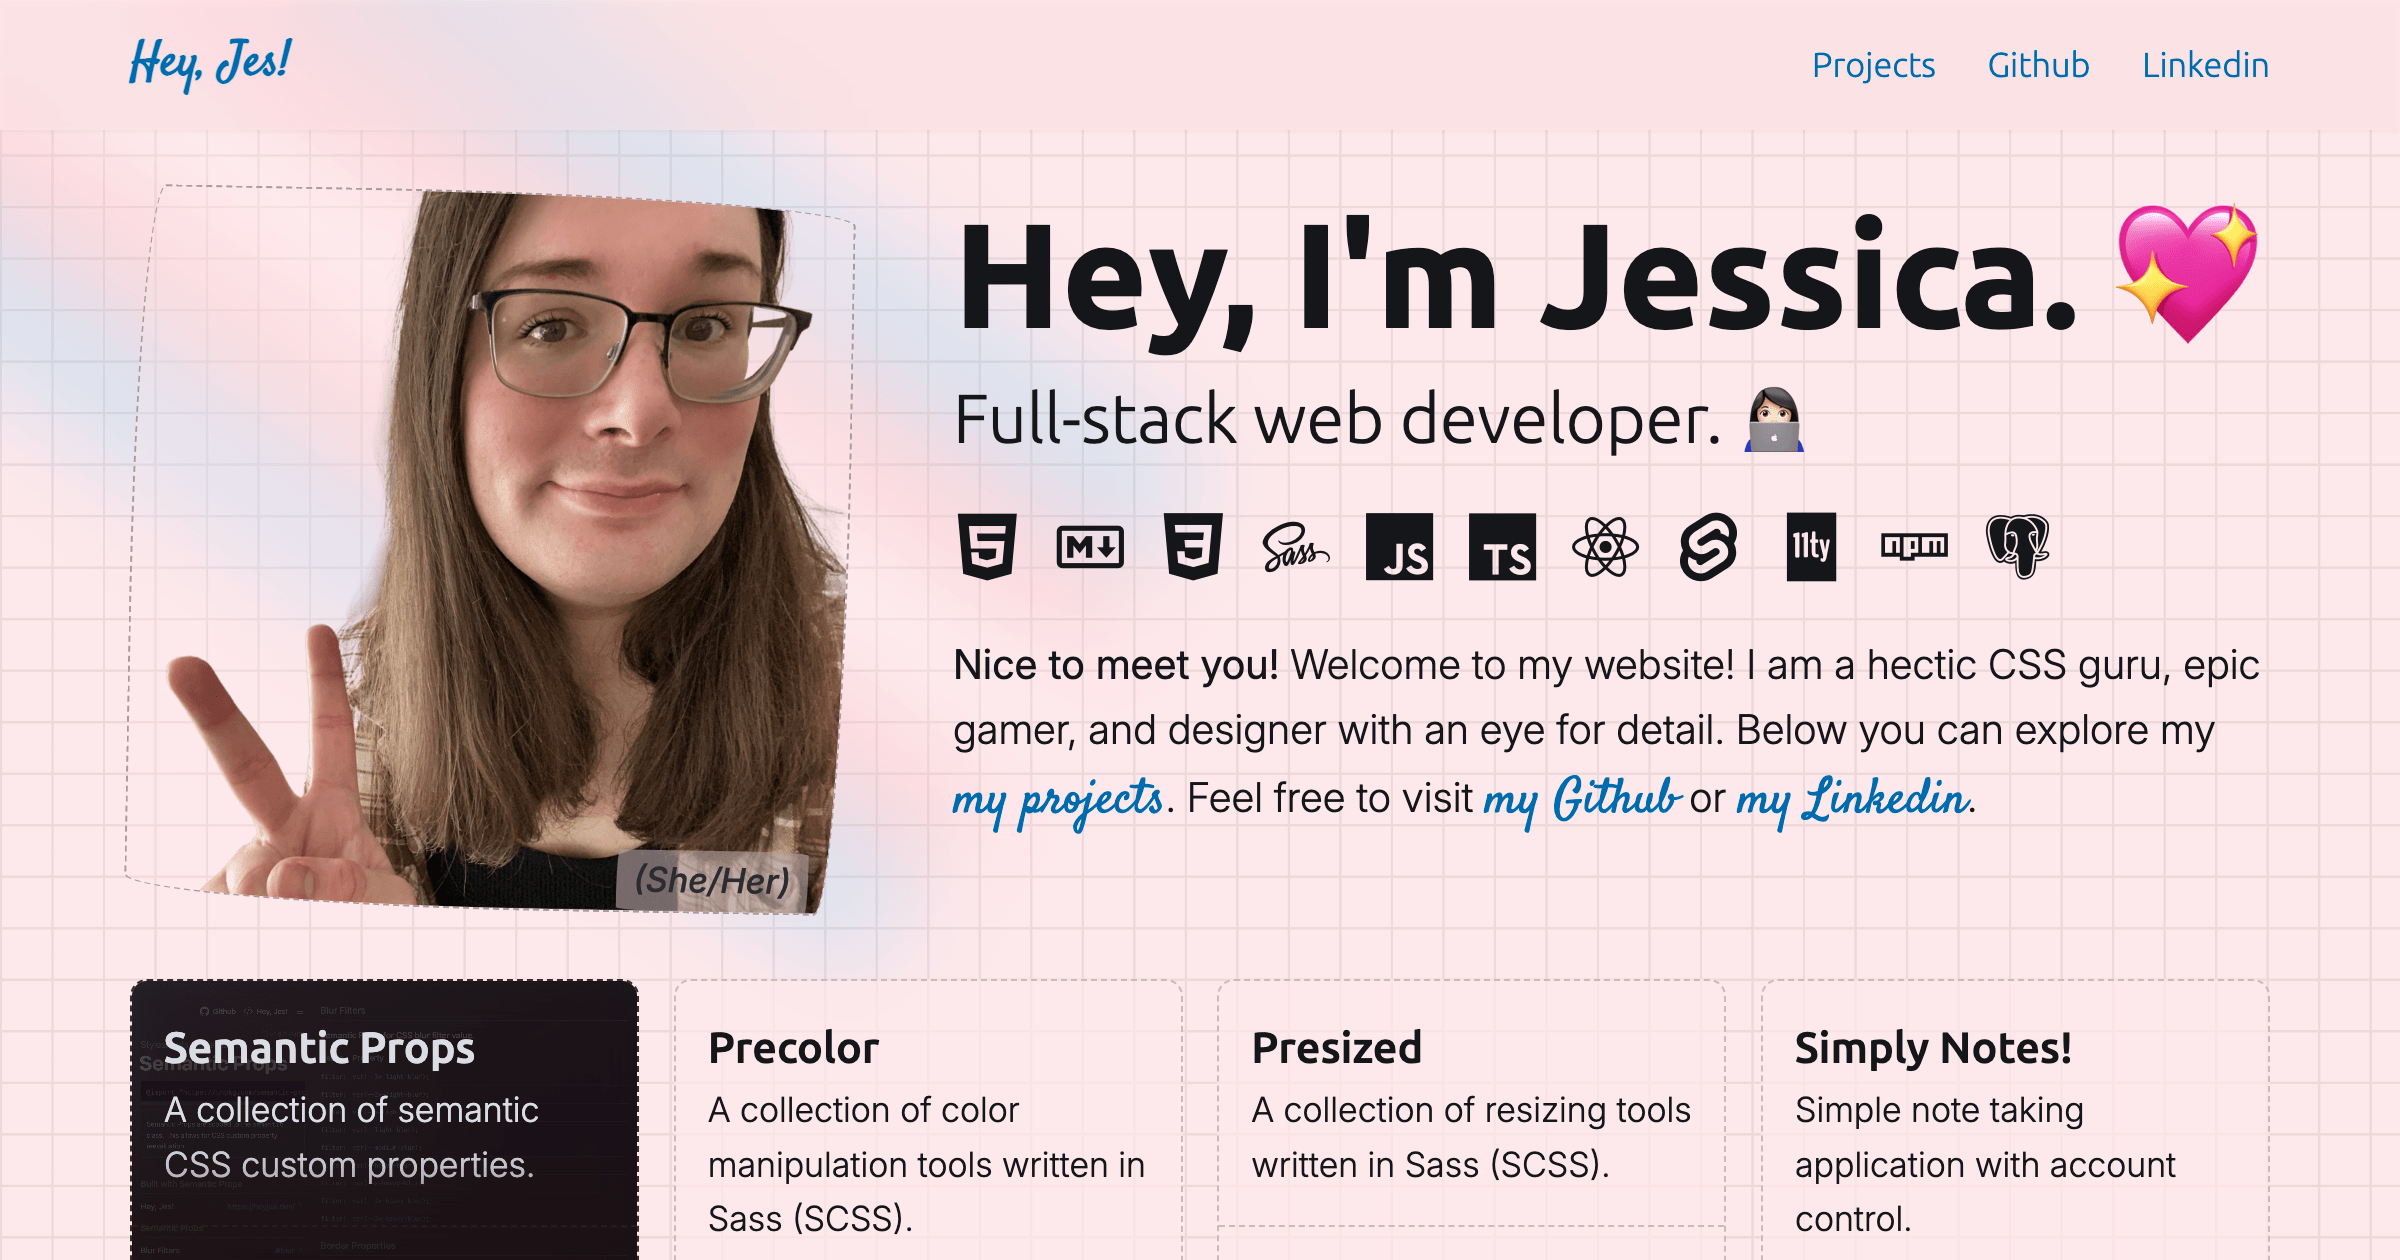
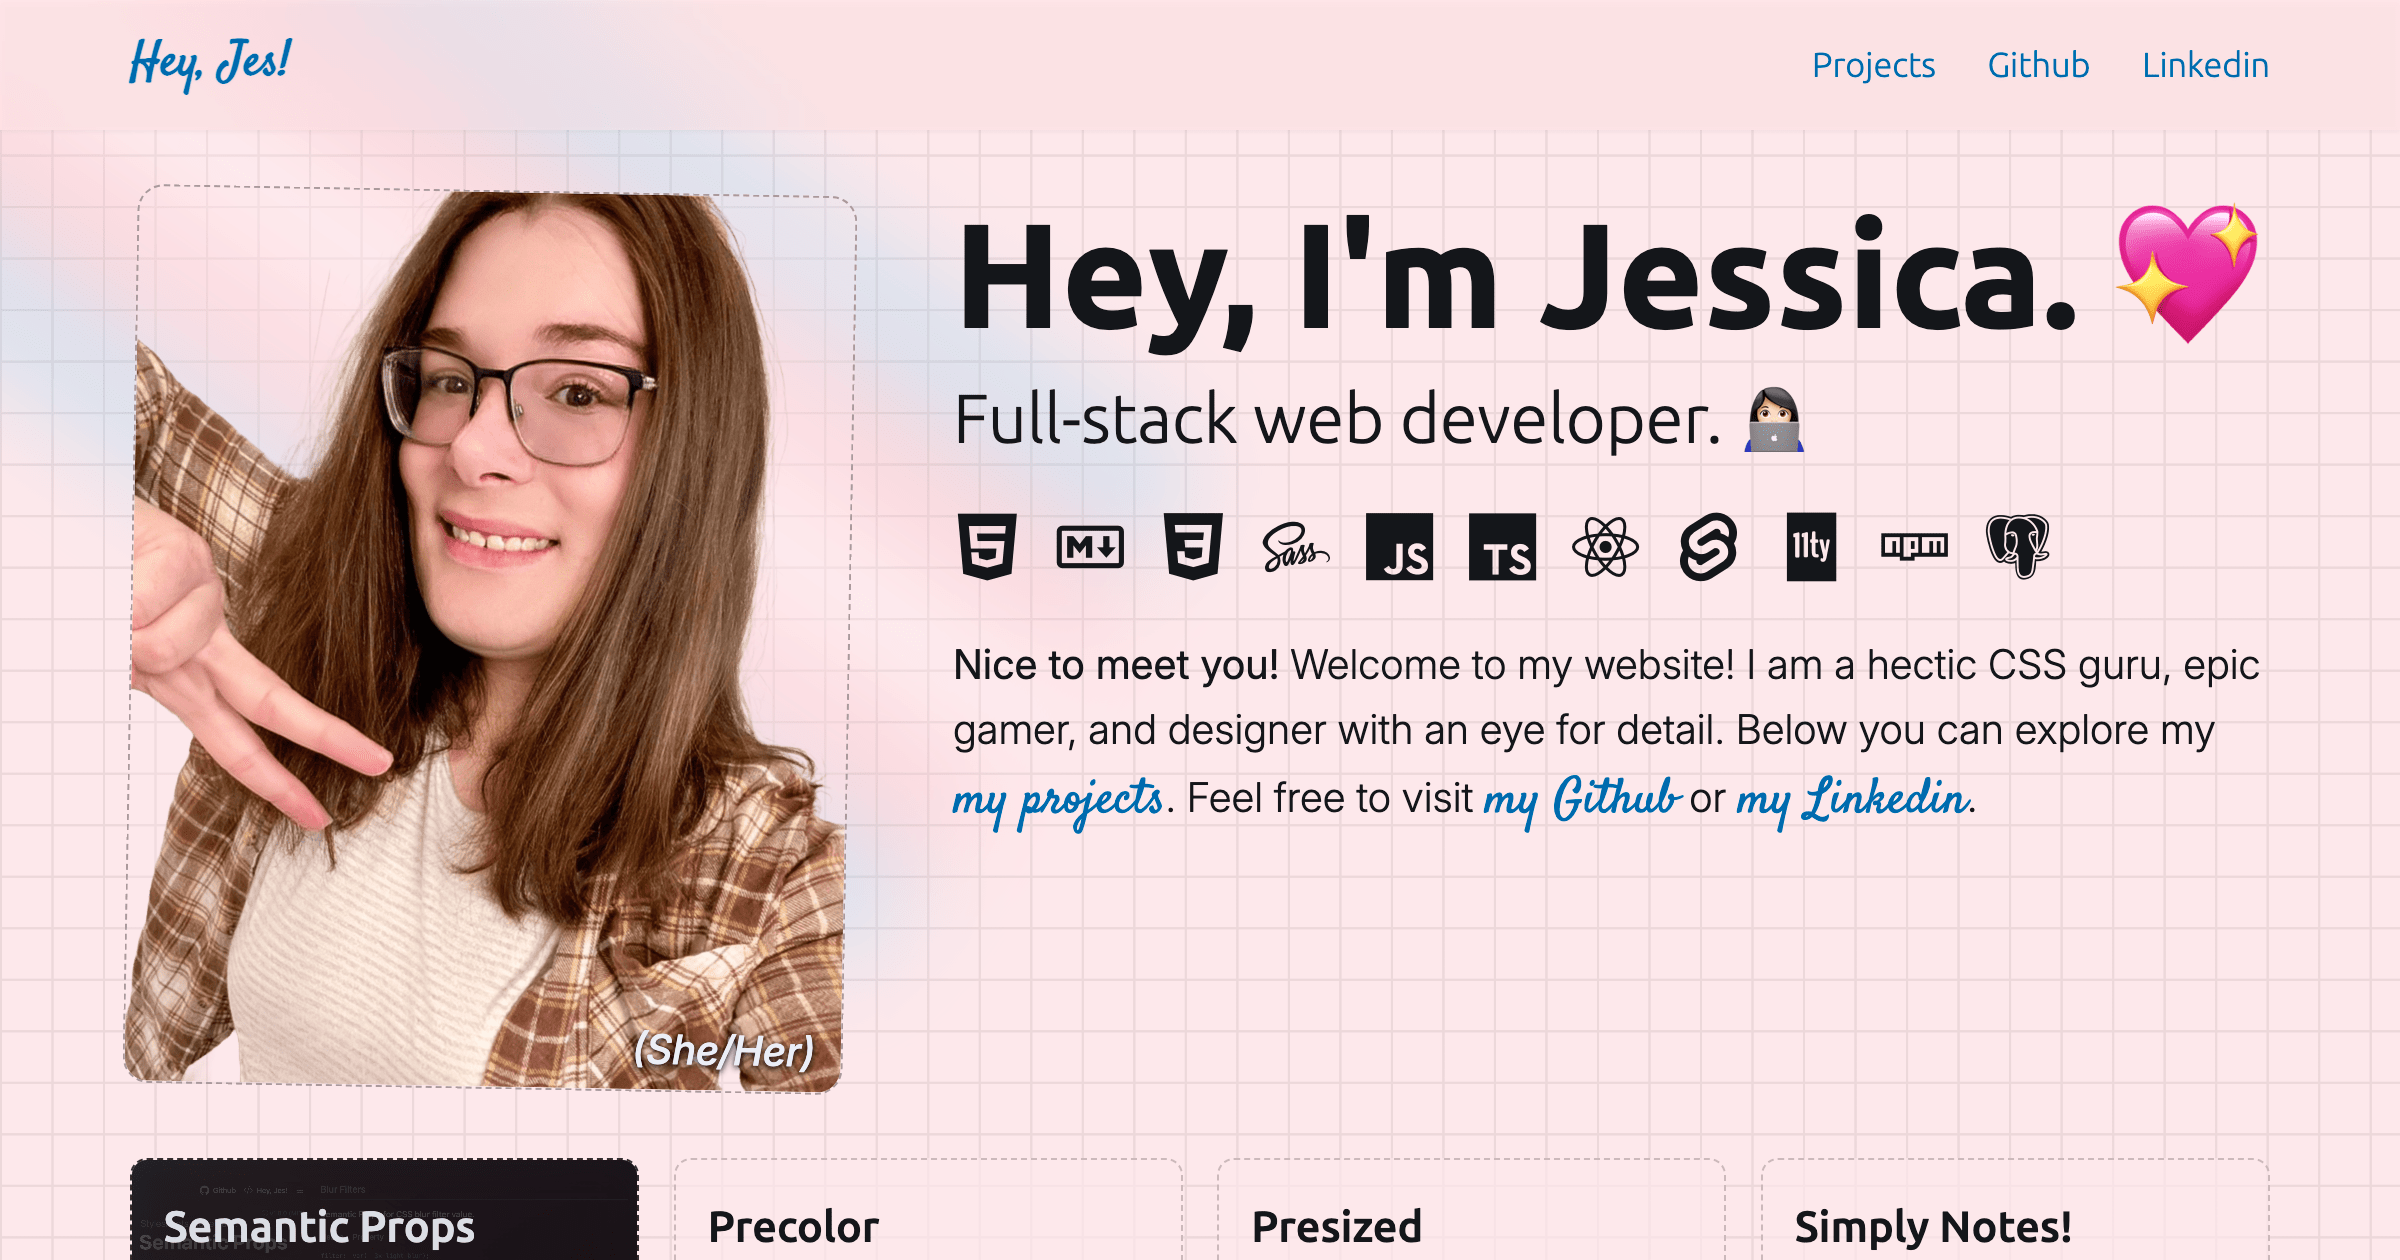
Updated profile picture image.

diff --git a/src/pages/Homepage.module.css b/src/pages/Homepage.module.css
@@ -9,12 +9,10 @@
 	position: relative;
 	display: block;
 	width: min(35cqi, var(--x-small-container));
-	aspect-ratio: 1 / 1;
 	background-color: var(--primary-50-800);
 	background-color: oklch(from var(--primary-50-800) l c h / var(--2x-low-opacity));
-	border-radius: 15px 255px 15px 225px / 225px 15px 255px 15px;
+	border-radius: var(--x-small-size);
 	border: 1px var(--border-style) var(--primary-300-600);
-	padding: var(--3x-small-size);
 	margin-block-start: var(--3x-small-size);
 	margin-block-end: clamp(var(--x-small-size), var(--responsive-size), var(--large-size));
 	margin-inline-end: clamp(var(--medium-size), var(--responsive-size), var(--x-large-size));
@@ -25,23 +23,19 @@
 }
 
 .profileImage {
-	position: absolute;
-	inset: 0;
-	width: 100%;
+	inline-size: 100%;
 }
 
 .pronouns {
 	position: absolute;
 	z-index: var(--z-absolute);
-	right: var(--small-size);
+	right: 1ch;
 	bottom: 0;
 	border-radius: inherit;
-	background-color: var(--primary-300-600);
-	background-color: oklch(from var(--primary-300-600) l c h / var(--high-opacity));
-	color: var(--secondary-700-100);
-	padding-inline: var(--2x-small-size);
-	padding-block: var(--3x-small-size);
-	line-height: var(--line-short);
+	color: var(--secondary-50);
+	text-shadow: 0 1px 3px var(--secondary-900);
+	line-height: var(--line-tall);
+	font-size: var(--large-font);
 	font-weight: var(--regular-font);
 	font-style: italic;
 }
